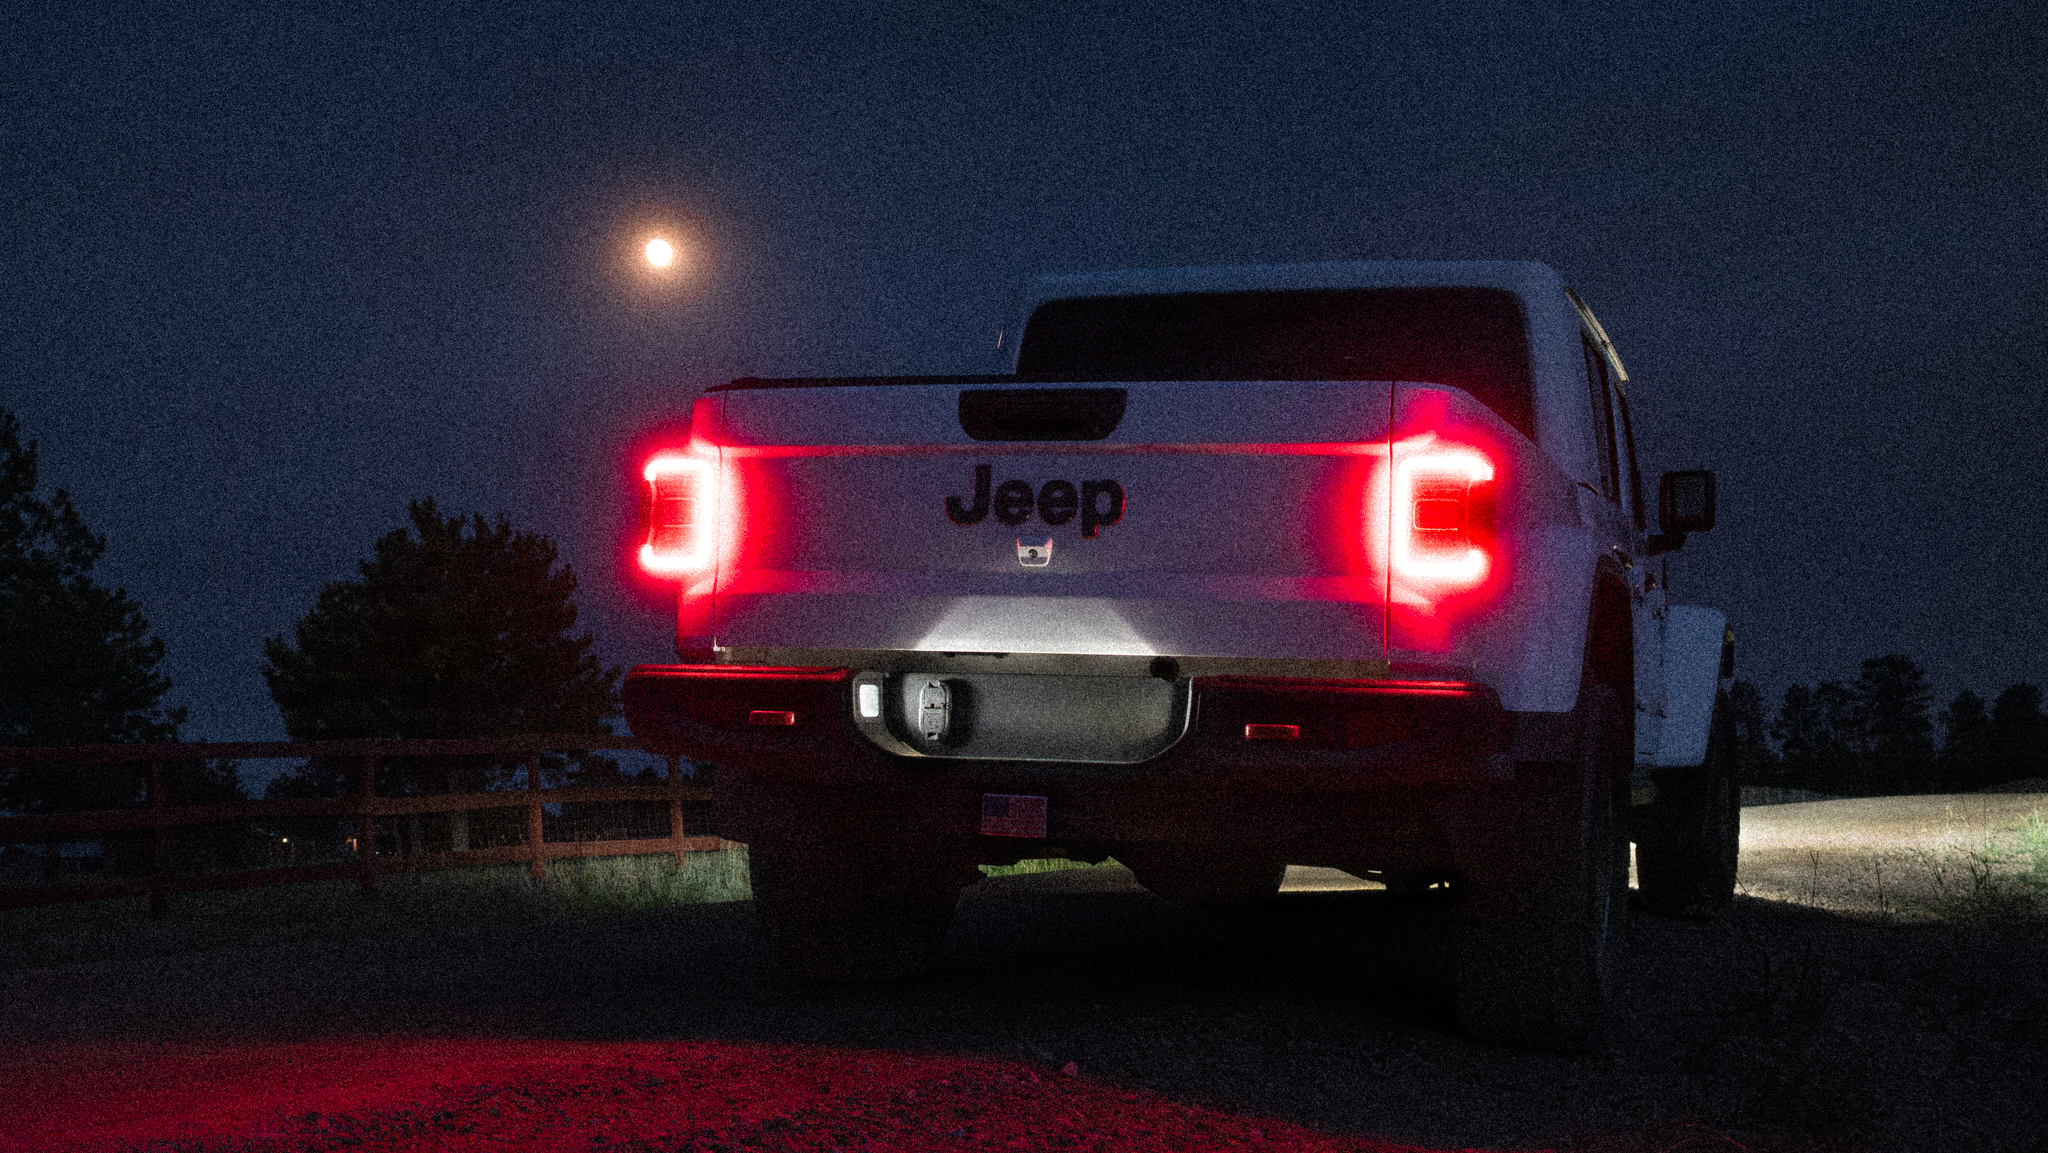
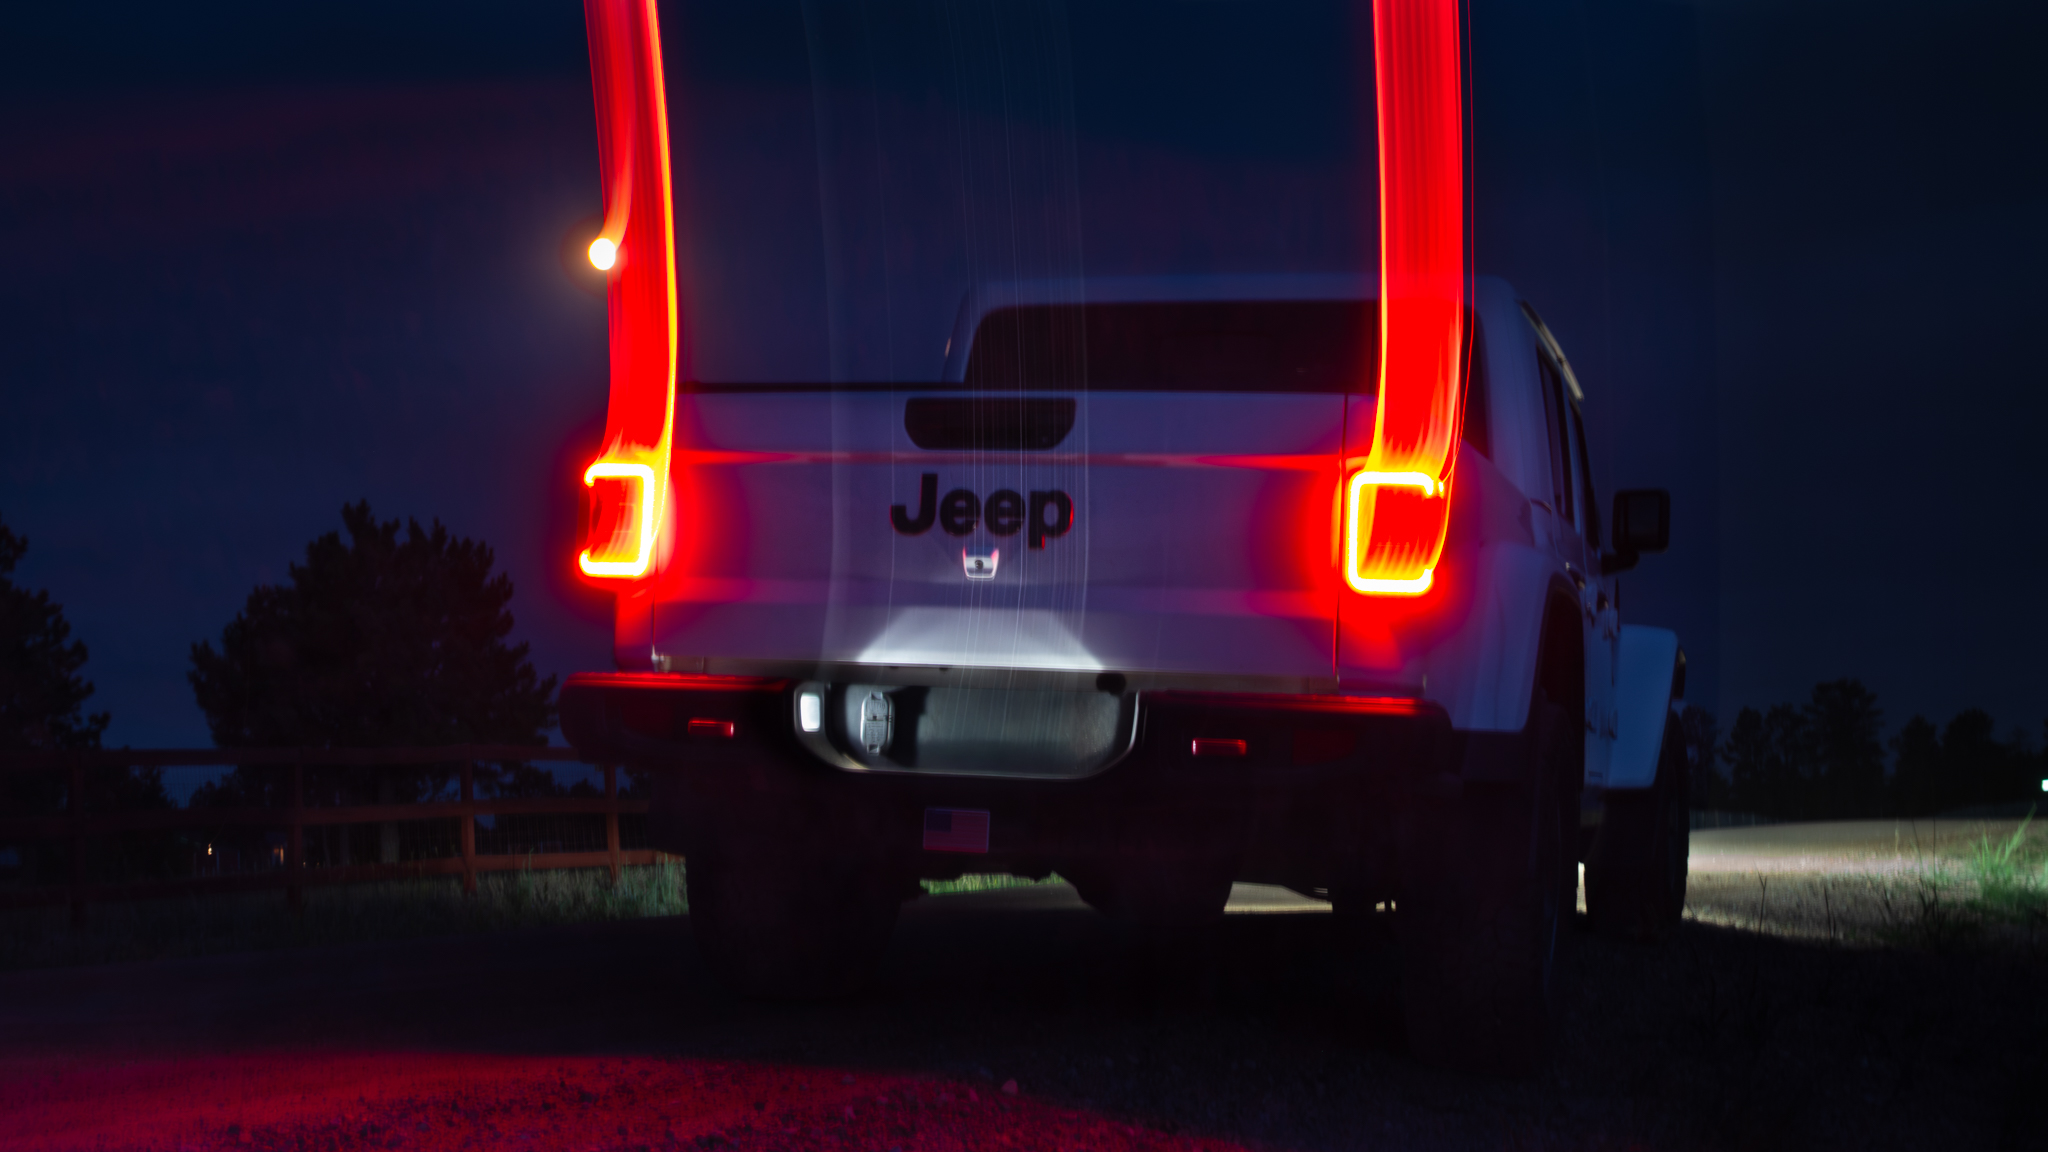
Add files via upload

diff --git a/index.html b/index.html
@@ -138,7 +138,7 @@ git push
       background: var(--accent);
     }
     .hero-title {
-      font-family: 'Playfair Display', serif;
+      font-family: 'Playfair Display', sans-serif;
       font-size: clamp(3.2rem, 8.8vw, 6.5rem);
       font-weight: 600;
       line-height: 1.0;
@@ -496,6 +496,7 @@ git push
     <p class="hero-sub">
       Aviation, automotive, landscape, and night photography shot
       in Colorado Springs and beyond.
+
     </p>
     <a href="#gallery" class="hero-cta">View Portfolio</a>
   </div>
@@ -516,6 +517,7 @@ git push
     <button class="tab" data-filter="automotive">Automotive</button>
     <button class="tab" data-filter="landscape">Landscape</button>
     <button class="tab" data-filter="night">Night</button>
+    <button class="tab" data-filter="more">More</button>
   </div>
 
   <!-- GRID
@@ -579,23 +581,23 @@ git push
     </div>
 
 
-       <div class="grid-item" data-cat="landscape" data-caption="Landscape · Colorado Springs">
+       <div class="grid-item" data-cat="landscape" data-caption="Landscape · Arches National Park">
       <div class="img-wrap">
         <img src="LAN3.jpg" alt="Landscape 3"
              onerror="this.style.display='none';this.parentElement.querySelector('.img-placeholder').style.display='flex'">
         <div class="img-placeholder">landscape · 03</div>
       </div>
-      <div class="overlay"><div class="overlay-caption">Landscape<span>Colorado Springs</span></div></div>
+      <div class="overlay"><div class="overlay-caption">Landscape<span>Arches National Park</span></div></div>
     </div>
 
 
-     <div class="grid-item" data-cat="landscape" data-caption="Landscape · Colorado Springs">
+     <div class="grid-item" data-cat="landscape" data-caption="Landscape · Maui">
       <div class="img-wrap">
         <img src="LAN4.jpg" alt="Landscape 4"
              onerror="this.style.display='none';this.parentElement.querySelector('.img-placeholder').style.display='flex'">
         <div class="img-placeholder">landscape · 04</div>
       </div>
-      <div class="overlay"><div class="overlay-caption">Landscape<span>Colorado Springs</span></div></div>
+      <div class="overlay"><div class="overlay-caption">Landscape<span>Maui</span></div></div>
     </div>
 
 
@@ -617,22 +619,23 @@ git push
       <div class="overlay"><div class="overlay-caption">Automotive<span>Colorado Springs</span></div></div>
     </div>
 
-    <div class="grid-item" data-cat="landscape" data-caption="Landscape · Colorado Springs">
-      <div class="img-wrap wide">
+
+    <div class="grid-item" data-cat="landscape" data-caption="Landscape · Leadville">
+      <div class="img-wrap">
         <img src="LAN1.jpeg" alt="Landscape 1"
              onerror="this.style.display='none';this.parentElement.querySelector('.img-placeholder').style.display='flex'">
         <div class="img-placeholder">landscape · 01</div>
       </div>
-      <div class="overlay"><div class="overlay-caption">Landscape<span>Colorado Springs</span></div></div>
+      <div class="overlay"><div class="overlay-caption">Landscape<span>Leadville</span></div></div>
     </div>
 
-    <div class="grid-item" data-cat="landscape" data-caption="Landscape · Colorado Springs">
+    <div class="grid-item" data-cat="landscape" data-caption="Landscape · Arches National Park">
       <div class="img-wrap">
         <img src="LAN2.jpg" alt="Landscape 2"
              onerror="this.style.display='none';this.parentElement.querySelector('.img-placeholder').style.display='flex'">
         <div class="img-placeholder">landscape · 02</div>
       </div>
-      <div class="overlay"><div class="overlay-caption">Landscape<span>Colorado Springs</span></div></div>
+      <div class="overlay"><div class="overlay-caption">Landscape<span>Arches National Park</span></div></div>
     </div>
 
 
@@ -689,6 +692,18 @@ git push
    
 
     <!-- ── NIGHT ─────────────────────────────────────── -->
+
+          <div class="grid-item" data-cat="night" data-caption="Night · Colorado Springs">
+      <div class="img-wrap">
+        <img src="NI3.jpg" alt="Night 3"
+             onerror="this.style.display='none';this.parentElement.querySelector('.img-placeholder').style.display='flex'">
+        <div class="img-placeholder">night · 03</div>
+      </div>
+      <div class="overlay"><div class="overlay-caption">Night<span>Colorado Springs</span></div></div>
+    </div>
+
+
+
     <div class="grid-item" data-cat="night" data-caption="Night · Colorado Springs">
       <div class="img-wrap">
         <img src="NI1.jpg" alt="Night 1"
@@ -707,25 +722,6 @@ git push
       <div class="overlay"><div class="overlay-caption">Night<span>Colorado Springs</span></div></div>
     </div>
 
-    <div class="grid-item" data-cat="night" data-caption="Night · Colorado Springs">
-      <div class="img-wrap wide">
-        <img src="NI7.jpg" alt="Night 7"
-             onerror="this.style.display='none';this.parentElement.querySelector('.img-placeholder').style.display='flex'">
-        <div class="img-placeholder">night · 07</div>
-      </div>
-      <div class="overlay"><div class="overlay-caption">Night<span>Colorado Springs</span></div></div>
-    </div>
-
-
-<div class="grid-item" data-cat="aviation" data-caption="Aviation · Colorado Springs">
-      <div class="img-wrap wide">
-        <img src="AV9.jpg" alt="Aviation 9"
-             onerror="this.style.display='none';this.parentElement.querySelector('.img-placeholder').style.display='flex'">
-        <div class="img-placeholder">aviation · 09</div>
-      </div>
-      <div class="overlay"><div class="overlay-caption">Aviation<span>Colorado Springs</span></div></div>
-    </div>
-
 
     <div class="grid-item" data-cat="aviation" data-caption="Aviation · Colorado Springs">
       <div class="img-wrap wide">
@@ -734,6 +730,37 @@ git push
         <div class="img-placeholder">aviation · 08</div>
       </div>
       <div class="overlay"><div class="overlay-caption">Aviation<span>Colorado Springs</span></div></div>
+    </div>
+
+
+    <div class="grid-item" data-cat="aviation" data-caption="Aviation · Colorado Springs">
+      <div class="img-wrap wide">
+        <img src="AV7.jpg" alt="Aviation 7"
+             onerror="this.style.display='none';this.parentElement.querySelector('.img-placeholder').style.display='flex'">
+        <div class="img-placeholder">aviation · 07</div>
+      </div>
+      <div class="overlay"><div class="overlay-caption">Aviation<span>Colorado Springs</span></div></div>
+    </div>
+
+
+
+        <div class="grid-item" data-cat="landscape" data-caption="Landscape · Colorado Springs">
+      <div class="img-wrap">
+        <img src="LAN6.jpg" alt="Landscape 6"
+             onerror="this.style.display='none';this.parentElement.querySelector('.img-placeholder').style.display='flex'">
+        <div class="img-placeholder">landscape · 06</div>
+      </div>
+      <div class="overlay"><div class="overlay-caption">Landscape<span>Colorado Springs</span></div></div>
+    </div>
+
+
+         <div class="grid-item" data-cat="landscape" data-caption="Landscape · Canyonlands National Park">
+      <div class="img-wrap wide">
+        <img src="LAN5.jpg" alt="Landscape 5"
+             onerror="this.style.display='none';this.parentElement.querySelector('.img-placeholder').style.display='flex'">
+        <div class="img-placeholder">landscape · 05</div>
+      </div>
+      <div class="overlay"><div class="overlay-caption">Landscape<span>Canyonlands National Park</span></div></div>
     </div>
 
 
@@ -757,52 +784,15 @@ git push
     </div>
 
 
-             <div class="grid-item" data-cat="automotive" data-caption="Automotive · Colorado Springs">
-      <div class="img-wrap">
-        <img src="CAR9.jpg" alt="Automotive 9"
-             onerror="this.style.display='none';this.parentElement.querySelector('.img-placeholder').style.display='flex'">
-        <div class="img-placeholder">automotive · 09</div>
-      </div>
-      <div class="overlay"><div class="overlay-caption">Automotive<span>Colorado Springs</span></div></div>
-    </div>
-
-
-       <div class="grid-item" data-cat="landscape" data-caption="Landscape · Colorado Springs">
+     <div class="grid-item" data-cat="more" data-caption="More · Colorado Springs">
       <div class="img-wrap wide">
-        <img src="LAN5.jpg" alt="Landscape 5"
+        <img src="MORE1.jpg" alt="More 1"
              onerror="this.style.display='none';this.parentElement.querySelector('.img-placeholder').style.display='flex'">
-        <div class="img-placeholder">landscape · 05</div>
+        <div class="img-placeholder">more · 01</div>
       </div>
-      <div class="overlay"><div class="overlay-caption">Landscape<span>Colorado Springs</span></div></div>
+      <div class="overlay"><div class="overlay-caption">More<span>Colorado Springs</span></div></div>
     </div>
 
-
-       <div class="grid-item" data-cat="night" data-caption="Night · Colorado Springs">
-      <div class="img-wrap">
-        <img src="NI3.jpg" alt="Night 3"
-             onerror="this.style.display='none';this.parentElement.querySelector('.img-placeholder').style.display='flex'">
-        <div class="img-placeholder">night · 03</div>
-      </div>
-      <div class="overlay"><div class="overlay-caption">Night<span>Colorado Springs</span></div></div>
-    </div>
-
-       <div class="grid-item" data-cat="night" data-caption="Night · Colorado Springs">
-      <div class="img-wrap wide">
-        <img src="NI5.jpg" alt="Night 5"
-             onerror="this.style.display='none';this.parentElement.querySelector('.img-placeholder').style.display='flex'">
-        <div class="img-placeholder">night · 05</div>
-      </div>
-      <div class="overlay"><div class="overlay-caption">Night<span>Colorado Springs</span></div></div>
-    </div>
-
-       <div class="grid-item" data-cat="night" data-caption="Night · Colorado Springs">
-      <div class="img-wrap">
-        <img src="NI6.jpg" alt="Night 6"
-             onerror="this.style.display='none';this.parentElement.querySelector('.img-placeholder').style.display='flex'">
-        <div class="img-placeholder">night · 06</div>
-      </div>
-      <div class="overlay"><div class="overlay-caption">Night<span>Colorado Springs</span></div></div>
-    </div>
 
 
   </div><!-- /grid -->
@@ -843,7 +833,7 @@ git push
     <p class="section-label">Work With Me</p>
     <h2 class="section-title">Contact</h2>
     <p class="section-desc">
-      I would love the opportuity to work with you! Please contact me with the email below for general inquiries.
+      I would love the opportuity to work with you! Please contact me at the email below for general inquiries.
     </p>
     <div class="contact-links">
       <a class="contact-link" href="mailto:[email redacted]">✉ [email redacted]</a>